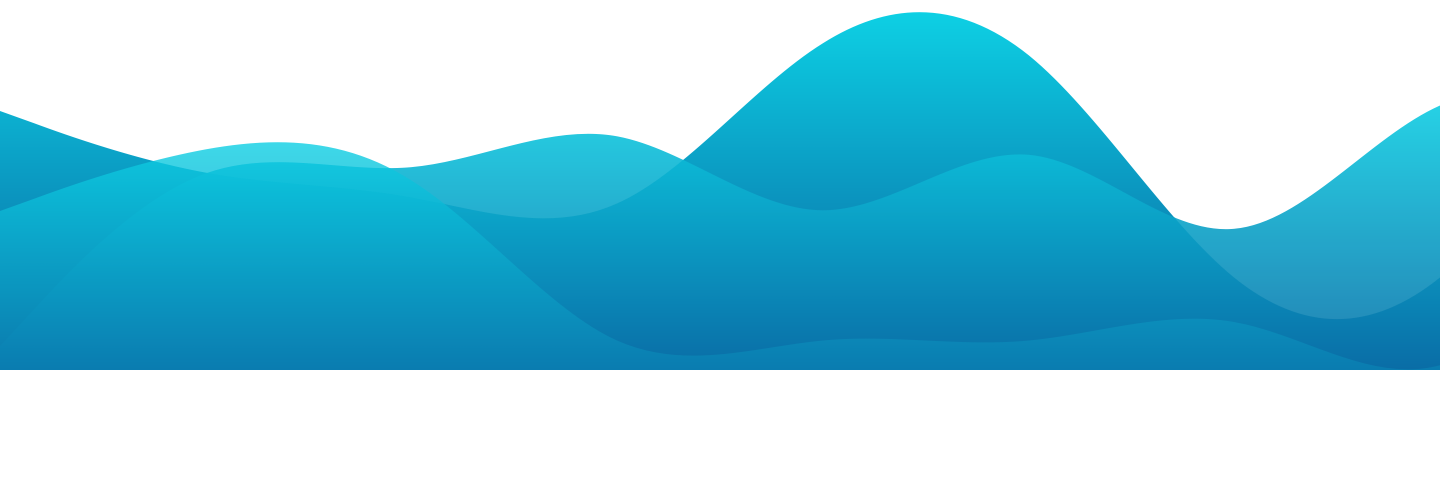
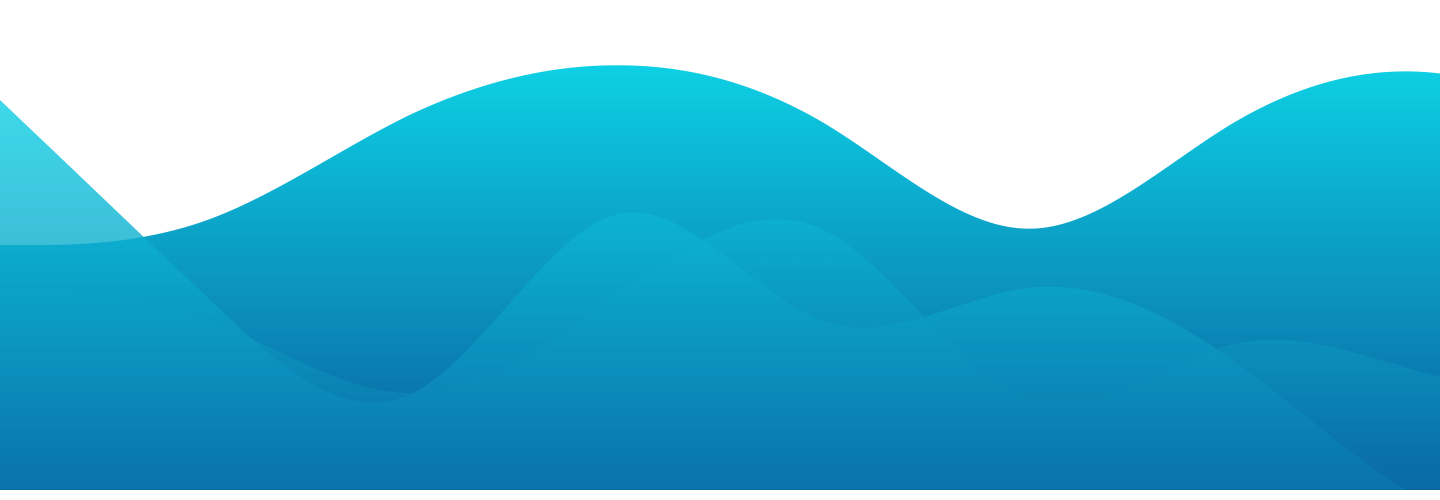
fixed the wave problem :)

diff --git a/Site/Style/secondBox.css b/Site/Style/secondBox.css
@@ -14,20 +14,20 @@
 }
 .topWaveTemplate{
     width:100%;
-    height:20%;
+    height:21%;
+    
 }
 
 .content-icons{   
     width:100%;
-    height:60%;
+    height:58%;
 }
 
 .bottomWaveTemplate{
     width:100%;
-    height:20%;
+    height:21%;
+    
 }
-
-
 
 #FirstTopWaveImage{
     background-image: url("../Images/FirstTopWaveImage.png");
@@ -54,7 +54,7 @@
     border-top-right-radius: 0.625rem;
 }
 #SecondBottomWaveImage{
-    background-image: url("../Images/FirstBottomWaveImage.png");
+    background-image: url("../Images/SecondBottomWaveImage.png");
     background-repeat: no-repeat;
     background-size: cover;
     border-bottom-left-radius: 0.625rem;

diff --git a/Site/index.html b/Site/index.html
@@ -192,7 +192,7 @@
                                     
                                     <!--Content-->
 
-                                        <div class = "content-icons">
+                                        <div class = "content-icons" >
 
                                         </div>
                                 
